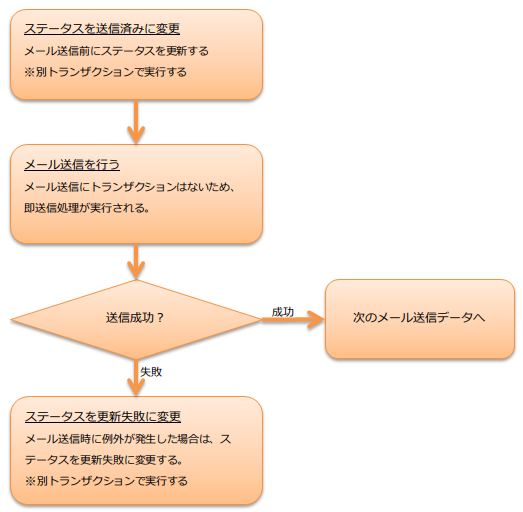
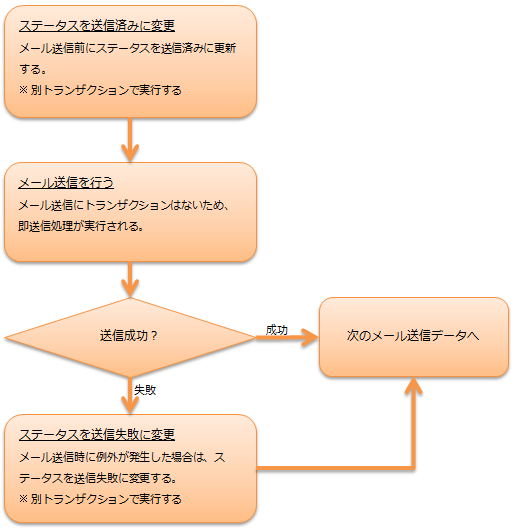
メール送信時の処理の流れとエラー処理の内容を更新

Changed region(s): [[0.0, 0.0, 0.9942, 1.0], [0.6524, 0.5938, 0.932, 0.6562], [0.4971, 0.0312, 0.5282, 0.1875]]

diff --git a/application_framework/application_framework/libraries/mail.rst b/application_framework/application_framework/libraries/mail.rst
@@ -502,27 +502,33 @@
     -userId mailBatchUser
     -mailSendPatternId 02
 
-メール送信時のエラーハンドル
- メール送信の際、以下のような順でエラーをハンドルしている。
+メール送信時のエラー処理
+ メール送信時にエラーが発生した場合、外部からの入力データ(アドレスやヘッダー)に起因するものと考え、対象のメール送信要求のステータスを送信失敗にして次のメール送信処理を行う。
 
- 1. 送信要求のメールアドレス変換時の例外 `JavaMailのAddressException <https://javamail.java.net/nonav/docs/api/javax/mail/internet/AddressException.html>`_ のハンドル。
- 2. メールヘッダインジェクション対策(後述)での例外 :java:extdoc:`InvalidCharacterException<nablarch.common.mail.InvalidCharacterException>` のハンドル。
- 3. メール送信時の送信失敗例外 `JavaMailのSendFailureException <https://javamail.java.net/nonav/docs/api/javax/mail/SendFailedException.html>`_ のハンドル。
- 4. 上記以外のメール送信時の例外 :java:extdoc:`Exception<java.lang.Exception>` のハンドル。
+ 例外の種類ごとに以下の順にエラー処理をしている。
 
- 1.、2.、3.で例外が発生した場合は、対象メール送信要求のステータスを送信失敗として、メール送信バッチは処理を継続する。
- 1.で不正となったアドレスに関してはログ出力(ログレベル: ERROR)を行う。
- 3.では、 `SendFailureException <https://javamail.java.net/nonav/docs/api/javax/mail/SendFailedException.html>`_ から、
- 送信されたアドレス、送信されなかったアドレス、不正なアドレスをログ出力(ログレベル: ERROR)する。
+ .. list-table:: メール送信時の例外と処理
+  :class: white-space-normal
+  :header-rows: 1
 
- 4.では、ステータスを送信失敗とし、1.、2.、3.以外のメール送信時の例外をラップしてリトライ例外を送出する。
- なお、リトライ上限に達した場合、メール送信バッチは異常終了する。
+  * - 例外
+    - 処理
+  * - 送信要求のメールアドレス変換時の `JavaMailのAddressException <https://javamail.java.net/nonav/docs/api/javax/mail/internet/AddressException.html>`_
+    - 変換に失敗したアドレスをログ出力(ログレベル: ERROR)する。
+  * - :ref:`mail-mail_header_injection` での :java:extdoc:`InvalidCharacterException<nablarch.common.mail.InvalidCharacterException>`
+    - ヘッダー文字列をログ出力(ログレベル: ERROR)する。
+  * - メール送信失敗時の `JavaMailのSendFailureException <https://javamail.java.net/nonav/docs/api/javax/mail/SendFailedException.html>`_
+    - 送信されたアドレス、送信されなかったアドレス、不正なアドレスをログ出力(ログレベル: ERROR)する。
+  * - 上記以外のメール送信時の :java:extdoc:`Exception <java.lang.Exception>`
+    - 例外をラップしてリトライ例外を送出する。
 
- 送信失敗の検知は、別プロセスでログファイルをチェックするなどして対応する必要がある。
+ なお、ステータスの送信失敗への更新に失敗した場合、または、リトライ上限に達した場合、メール送信バッチは異常終了する。
+
+ .. important::
+  送信失敗の検知は、別プロセスでログファイルをチェックするなどして対応する必要がある。
 
  .. tip::
-  上記の1.、2.、3.でのログ出力処理、4.の例外ハンドル処理は、protectedメソッドとして実装されているため、
-  プロジェクト側で、:java:extdoc:`MailSender<nablarch.common.mail.MailSender>` を継承して、
+  ログ出力、:java:extdoc:`Exception<java.lang.Exception>` に対する処理は、プロジェクト側で :java:extdoc:`MailSender<nablarch.common.mail.MailSender>` を継承して
   ログの内容や、どの例外をリトライ対象とするかなどを変更できる。
 
 .. _`mail-mail_multi_process`:
@@ -562,7 +568,7 @@
  そのため、保険的対策として、これらの項目に対して改行コードが含まれている場合にはメール送信を実施しないチェック機能を設けている。
  改行コードが含まれていた場合には、
  :java:extdoc:`InvalidCharacterException<nablarch.common.mail.InvalidCharacterException>`
- の送出およびログ出力(ログレベル: FATAL)を行い、該当のメールは送信処理を失敗として扱うこととする。
+ の送出およびログ出力(ログレベル: ERROR)を行い、該当のメールは送信処理を失敗として扱うこととする。
 
  この保険的対策は、脆弱性となる可能性のある以下の項目を対象としている。
 
